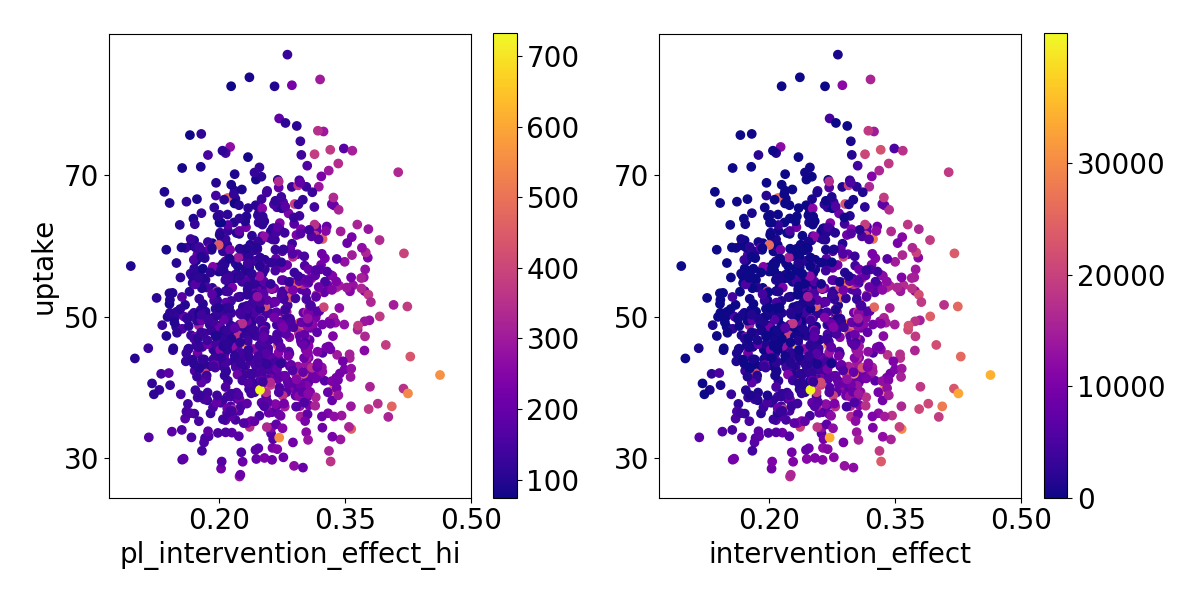
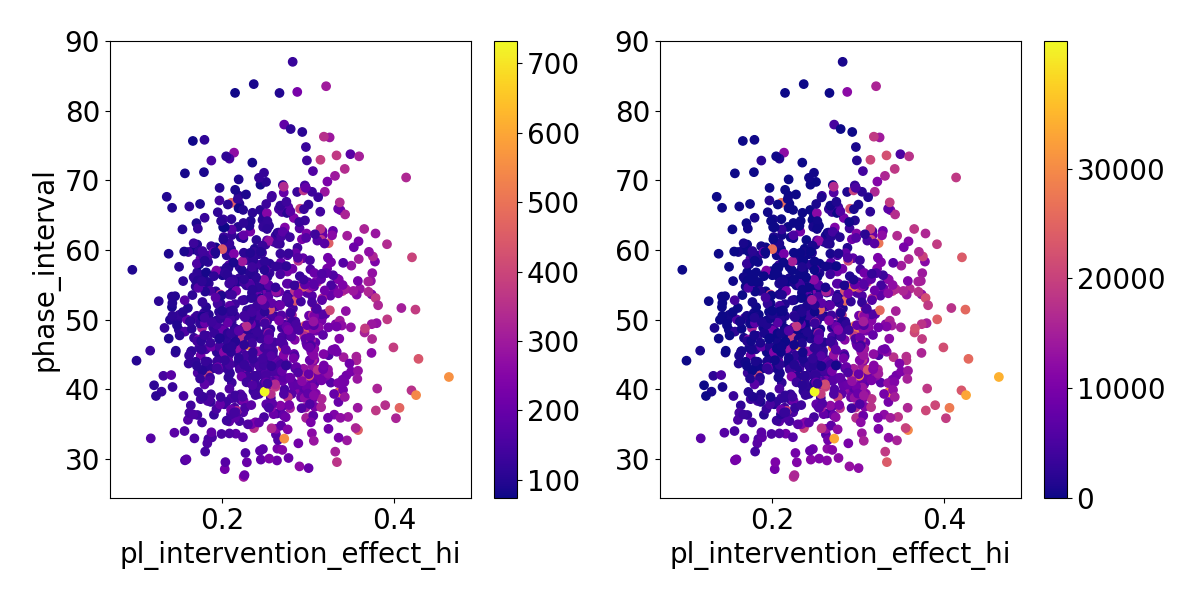
fix axes labesl

diff --git a/EasyVVUQ/heatmap_PO.py b/EasyVVUQ/heatmap_PO.py
@@ -64,21 +64,21 @@ for run in info:
 #     print(run[1]['params'])
 
 f = plt.figure('heatmap',figsize=[12,6])
-ax_p = f.add_subplot(121, xlabel='pl_intervention_effect_hi', ylabel='uptake')
+ax_p = f.add_subplot(121, xlabel='pl_intervention_effect_hi', ylabel='phase_interval')
 im_p = ax_p.scatter(x=pl_intervention_effect_hi, y=phase_interval, c=IC_prev_avg_max, cmap='plasma')
 f.colorbar(im_p, ax=ax_p)
 
-ax_p.set_xticks([0.2, 0.35, 0.5])
-ax_p.set_yticks([30, 50, 70])
+#ax_p.set_xticks([0.2, 0.35, 0.5])
+#ax_p.set_yticks([30, 50, 70])
 
-ax_e = f.add_subplot(122, xlabel='intervention_effect')
+ax_e = f.add_subplot(122, xlabel='pl_intervention_effect_hi')
 im_e = ax_e.scatter(x=pl_intervention_effect_hi, y=phase_interval, c=IC_ex_max, cmap='plasma')
 cbar_e = f.colorbar(im_e, ax=ax_e)
 cbar_e.set_ticks([0, 1e4, 2e4, 3e4])
 cbar_e.set_ticklabels(['0', '10000', '20000', '30000'])
 
-ax_e.set_xticks([0.2, 0.35, 0.5])
-ax_e.set_yticks([30, 50, 70])
+#ax_e.set_xticks([0.2, 0.35, 0.5])
+#ax_e.set_yticks([30, 50, 70])
 
 plt.tight_layout()
 f.savefig('figures/heatmap_PO_MC1000.png')
